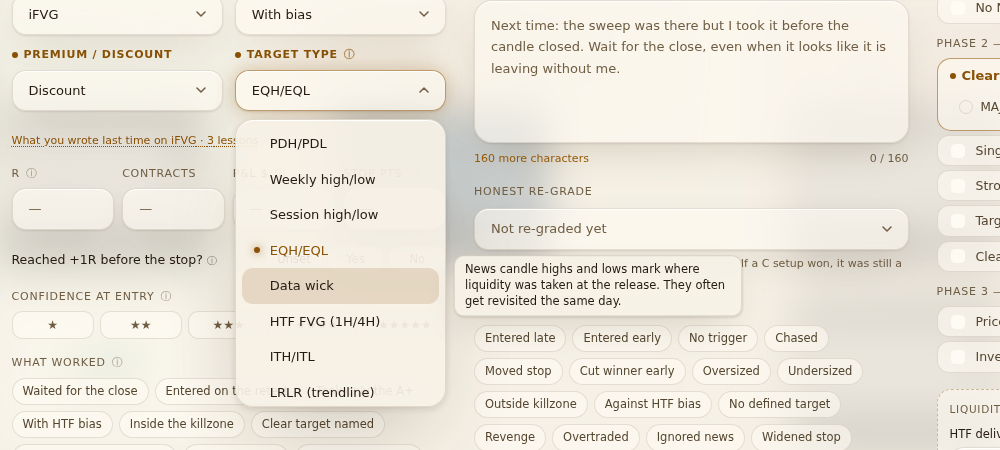
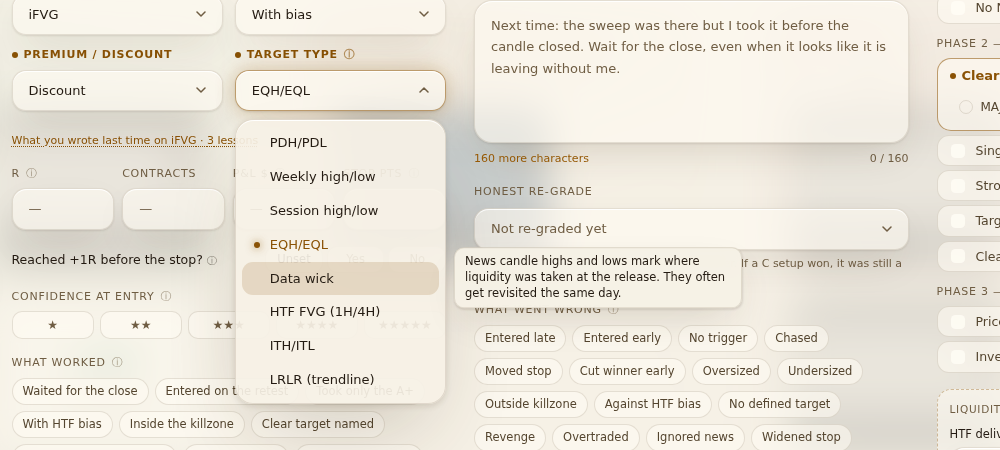
Management plan reads in full; HTF delivery says what it is for
- Plan labels are short enough for their field ("A · all to target",
  "B · half off + runner"). The whole plan is in the hover hint on each
  option and in the field's ⓘ.
- Any dropdown whose choice is too long for its field now shows all of it
  on hover. Long options in an open menu wrap instead of being cut.
- The liquidity-event box and its HTF delivery field explain themselves:
  a sweep takes resting stops, a delivery tags a higher-timeframe FVG/OB
  where limit orders rest. Rubric 4 wants one, and A+ wants both.

Claude-Session: https://claude.ai/code/session_01Wj9WcLUfNVMwaaMojhddmo

diff --git a/components/ui/Select.tsx b/components/ui/Select.tsx
@@ -35,6 +35,10 @@ export function Select<T extends string>({
   const [active, setActive] = useState(0);
   const [hovered, setHovered] = useState(false);
   const rootRef = useRef<HTMLDivElement>(null);
+  const shownRef = useRef<HTMLSpanElement>(null);
+  // A choice too long for the field is cut with an ellipsis; then hovering
+  // the field shows all of it.
+  const [clipped, setClipped] = useState(false);
   const menuRef = useRef<HTMLUListElement>(null);
   const listId = useId();
 
@@ -60,6 +64,16 @@ export function Select<T extends string>({
   }, [options.length]);
 
   useLayoutEffect(() => { if (open) measure(); }, [open, measure]);
+
+  useLayoutEffect(() => {
+    const el = shownRef.current;
+    if (!el) return;
+    const check = () => setClipped(el.scrollWidth > el.clientWidth + 1);
+    check();
+    const ro = new ResizeObserver(check);
+    ro.observe(el);
+    return () => ro.disconnect();
+  }, [value]);
 
   useEffect(() => {
     if (!open) return;
@@ -131,7 +145,10 @@ export function Select<T extends string>({
           text-left text-[13px] disabled:opacity-40"
         style={{ color: value ? 'var(--text)' : 'var(--text-faint)' }}
       >
-        <span className="truncate">{value != null ? text(value) : placeholder}</span>
+        <span ref={shownRef} className="truncate"
+          title={clipped && value != null ? [text(value), titleFor?.(value)].filter(Boolean).join('\n\n') : undefined}>
+          {value != null ? text(value) : placeholder}
+        </span>
         <motion.svg
           width="10" height="6" viewBox="0 0 10 6" fill="none" aria-hidden
           animate={{ rotate: open ? 180 : 0 }} transition={springSnappy}
@@ -191,7 +208,7 @@ export function Select<T extends string>({
                         boxShadow: selected ? `0 0 8px rgb(${optionAccent} / 0.8)` : undefined,
                       }}
                     />
-                    <span className="truncate">{text(option)}</span>
+                    <span className="min-w-0 leading-snug">{text(option)}</span>
                   </motion.li>
                 );
               })}

diff --git a/components/capture/TrialLiquidity.tsx b/components/capture/TrialLiquidity.tsx
@@ -66,7 +66,7 @@ export function TrialLiquidity({
       className="mt-4 rounded-[calc(14px*var(--rk))] border border-dashed px-3 pb-3 pt-2.5"
       style={{ borderColor: `rgb(${accent} / 0.35)`, background: 'var(--glass-fill)' }}>
       <div className="mb-2 flex items-baseline justify-between gap-3"
-        title="Logged for the trial only. The grade above is still the one this trade is taken on.">
+        title={"Why there was someone on the other side of your entry. Two kinds: a SWEEP took the stops resting past a level; a DELIVERY tagged a higher-timeframe FVG/OB where limit orders rest. Rubric 4 asks for at least one, and gives A+ only to both.\n\nLogged for the trial only. The grade above is still the one this trade is taken on."}>
         <span className="text-[10.5px] font-medium uppercase tracking-[0.07em]" style={{ color: 'var(--text-faint)' }}>
           Liquidity event · rubric {TRIAL_RUBRIC} trial <span aria-hidden className="normal-case opacity-60">ⓘ</span>
         </span>
@@ -86,7 +86,7 @@ export function TrialLiquidity({
               onChange={(v) => onSweepLevel(v === NOT_NAMED ? '' : v)} />
           </div>
         )}
-        <div data-field="htf_delivery" title="Only if the bodies respected it. Delivery alone caps at B; A+ needs it with a sweep.">
+        <div data-field="htf_delivery" title={"The higher-timeframe FVG or order block price tapped into and reacted from just before your entry — e.g. it dipped into a 15m FVG, then your 1m iFVG fired. Resting limit orders there are the fuel, the way stops are for a sweep.\n\nCount it only if candle bodies respected the zone. Pick none if there wasn't one. Delivery alone caps at B; A+ needs it together with a sweep."}>
           <span className="mb-1 block text-[11.5px] font-medium">HTF delivery</span>
           <Select accent={accent} value={htfDelivery || null} placeholder="Pick, or none…"
             options={[NO_DELIVERY, ...HTF_DELIVERIES]}

diff --git a/components/capture/NewTradeForm.tsx b/components/capture/NewTradeForm.tsx
@@ -12,7 +12,7 @@ import {
   type Instrument, type MistakeTag, type Outcome, type PremiumDiscount, type Regrade,
   type SkipReason, type Reason, type Session, type SetupType, type TargetType,
   type SweepTier, type TradeStatus, type Tri,
-  MGMT_PLANS, MGMT_PLAN_LABEL, PARTIAL_LEVELS, type MgmtPlan,
+  MGMT_PLANS, MGMT_PLAN_LABEL, MGMT_PLAN_WHY, PARTIAL_LEVELS, type MgmtPlan,
 } from '@/lib/domain';
 import { REGRADE_HINT, regradeOptions } from '@/lib/grade';
 import { CURRENT_RUBRIC, GATES_SINCE, MODEL_GATE_MESSAGE, gradeUnder } from '@/lib/rubric';
@@ -761,9 +761,10 @@ export function NewTradeForm({ trade, pastLessons = {}, backtestLessons = {} }: 
             label="Other side already taken today?"
             hint="If the opposite liquidity went first, this side is the obvious draw." />
           <div className="grid gap-3 sm:grid-cols-2">
-            <Field quiet label="Management plan" hint="Fixed for the whole sample, or the sample measures nothing.">
+            <Field quiet label="Management plan"
+              hint={`${mgmtPlan ? MGMT_PLAN_WHY[mgmtPlan] + '\n\n' : ''}Fixed for the whole sample, or the sample measures nothing.`}>
               <Select value={mgmtPlan} onChange={setMgmtPlan} options={MGMT_PLANS}
-                labelFor={(o) => MGMT_PLAN_LABEL[o]} placeholder="Which plan?" />
+                labelFor={(o) => MGMT_PLAN_LABEL[o]} titleFor={(o) => MGMT_PLAN_WHY[o]} placeholder="Which plan?" />
             </Field>
             <Field quiet label="Max R reached" hint="How far it went your way before it turned. Check the chart.">
               <Input type="number" step="0.1" min="0" inputMode="decimal" placeholder="—"

diff --git a/lib/domain.ts b/lib/domain.ts
@@ -139,9 +139,14 @@ export const PARTIAL_LEVELS = [
   'Intraday swing (ITH/ITL)', 'EQH/EQL', 'Session high/low', 'PDH/PDL',
   'Data wick', 'Weekly high/low', 'HTF FVG', 'Order block', 'Fixed R',
 ] as const;
+/** Short enough for a half-width field; the whole plan is in MGMT_PLAN_WHY. */
 export const MGMT_PLAN_LABEL: Record<MgmtPlan, string> = {
-  A: 'A · all to final target, BE',
-  B: 'B · half at first liquidity, BE, runner',
+  A: 'A · all to target',
+  B: 'B · half off + runner',
+};
+export const MGMT_PLAN_WHY: Record<MgmtPlan, string> = {
+  A: 'Plan A: the whole position rides to the final target. Stop to breakeven once the first internal liquidity breaks.',
+  B: 'Plan B: half off at the first internal liquidity, stop to breakeven, the runner rides to the final target.',
 };
 /**
  * Renamed rather than retired: migrations 015 and 022 moved every stored row
